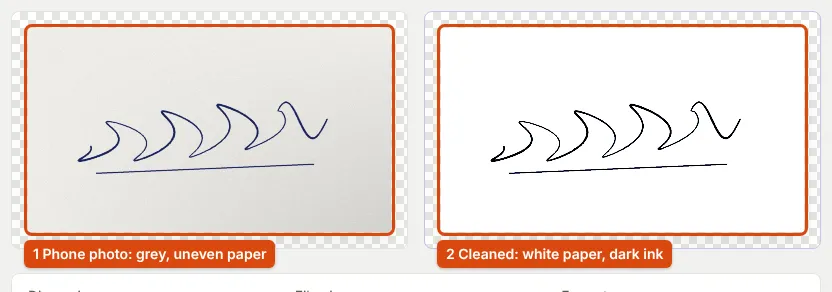
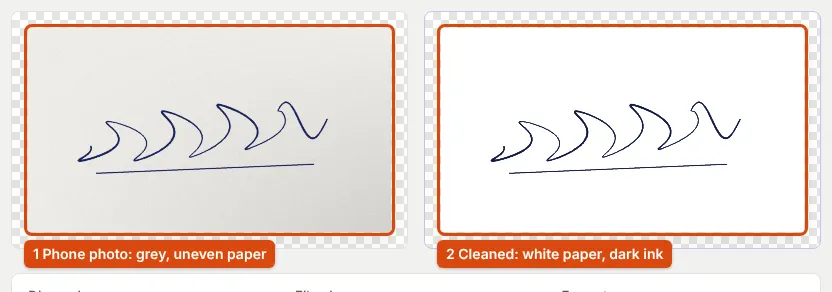
Retake tutorial screenshots after the audit fixes; clearer Compress PDF result wording
The signature cleaner, image compressor, resizer crop, batch, resume library and Your data screenshots
are retaken from the fixed tools. The Compress PDF shot now includes its result line, whose wording
reads 'under 200 KB whether a KB is counted as 1,000 or 1,024 bytes'.

Claude-Session: https://claude.ai/code/session_017Y1cq7vMRxwcAq3zsHZCPV

diff --git a/sw.js b/sw.js
@@ -27,8 +27,8 @@
 
 /* precache:start (generated by scripts/build-sw.js; do not edit by hand) */
 const VENDOR_CACHE = 'applyready-vendor-ab3b187c79';
-const SITE_BYTES = 9419356;
-const SITE_TRANSFER = 4767800;
+const SITE_BYTES = 9423858;
+const SITE_TRANSFER = 4772291;
 const STATIC_ASSETS = [
   '/404.html',
   '/about.html',
@@ -227,7 +227,7 @@ const VENDOR_ASSETS = [
   '/js/vendor/pdfjs/standard_fonts/LiberationSans-Regular.ttf'
 ];
 const OFFLINE_SHELL = ['/js/offline.js', '/css/webfonts/fa-solid-900.woff2', '/css/webfonts/fa-regular-400.woff2'];
-const ASSET_HASHES = '659d48d8 33989cb3 9542597a e94ed0dc 070f43d8 72bed02b 43edfaf8 341a3f5c 0185e246 605e7ebe dbd86c49 7c596a55 549bccf1 062b1e87 6d6f88bb 2353dd6a 0134f604 1a6d8574 d1f7ea3f ad9d7410 3ecb0248 9c346a27 a742787e f0357442 5a5ae374 42075813 5476fd10 bb62d4ef ddf9b963 7c6c5ab7 0833d9a2 f879d59d 2ab1ddb4 f2c4edd7 3884f40f 686e680e 73797752 8e589447 3f54cb29 7852b253 04404a5c 0a6e7479 f448129c b94a713b 97564623 041f100e a6fe5acd 882ab238 2b49a0ab 2820a4f4 ddc16948 65a7c468 e5e80fb8 8aa6938c c1d5b9f5 85d0ed9a 9ef27fb7 b0456054 6e438834 f9f71e17 466e4162 4f10a364 d4840713 333bc53a b852262c 79124226 62d29086 7ad3fd11 3c849845 f7f61b6c 8658403c 520144c3 5b53b59f f052ee44 bc1fc30f aa6e5a20 d87ba78f ccc97f67 10658dfd 381acc1e 20a4fde0 7e8bed67 f459bed3 e0f8f39a b6652503 cfeb156a b4c3428c 4c351ada 021e173b 7166b346 afe88946 41a7fdb8 82eeab63 c4dd9367 1b5b09d3 dbb135e0 0c84fc05 11e9ddfb 0e7d7749 35507a98 a1a335f4 c2dd94fc da139a8a 6de3d471 e8ff1529 6f7c3443 1e4acad5 11ae5c5f 6b77849e adc69f0e 6ed98860 a2e63697 b569d12f cfb137a5 09a8cc5a adf5e281 74da360e 3dc79eae d0ba44cf f10834eb db74c276 5a791de3 35cd9ddc 910b772f 8dd6bee6 82d233cc b20765df c68fca5f 4478300c b24d5881 733bcfce d2081435 892262ce 6fc7ed60 401c08dd f3a994c8 43fa48bd 8225729e 07bc8f77 ecfbc3d1 8246f9ef 01176b15 fab42cf5 54d27c1d 400c3701 edcb5708 62dbd51b e2de8d88 669bdf15 9fd949dc b5e24ef4 eb5f5281 9f553ce8 bf512517 3b60e0ca e124716c cbeddeaf 7d101cce aa7b441c c6f50dc7 6d286735 612ed295 03d2fe45 7c84a9c4 ef95100a 1580a02d 7539c3f4 2312411c f95fe2d5 61ce1916 50d46e76 63f45536'.split(' ');
+const ASSET_HASHES = '659d48d8 33989cb3 9542597a e94ed0dc 070f43d8 72bed02b 43edfaf8 341a3f5c 0185e246 605e7ebe dbd86c49 7c596a55 549bccf1 062b1e87 6d6f88bb 2353dd6a 0134f604 1a6d8574 d1f7ea3f ad9d7410 3ecb0248 9c346a27 a742787e f0357442 5a5ae374 42075813 5476fd10 bb62d4ef ddf9b963 7c6c5ab7 0833d9a2 f879d59d 2ab1ddb4 f2c4edd7 3884f40f 686e680e 73797752 8e589447 3f54cb29 7852b253 aed22776 0a6e7479 f448129c b94a713b 97564623 041f100e a6fe5acd 882ab238 2b49a0ab 2820a4f4 ddc16948 4b968334 e5e80fb8 8aa6938c c1d5b9f5 85d0ed9a 9ef27fb7 b0456054 6e438834 f9f71e17 466e4162 4f10a364 d4840713 333bc53a b852262c 79124226 62d29086 7ad3fd11 3c849845 f7f61b6c 8658403c 520144c3 5b53b59f f052ee44 bc1fc30f aa6e5a20 d87ba78f ccc97f67 10658dfd 381acc1e 20a4fde0 7e8bed67 f459bed3 e0f8f39a b6652503 cfeb156a b4c3428c 4c351ada 021e173b 7166b346 afe88946 41a7fdb8 82eeab63 c4dd9367 1b5b09d3 dbb135e0 0c84fc05 11e9ddfb 0e7d7749 35507a98 a1a335f4 c2dd94fc da139a8a 6de3d471 e8ff1529 6f7c3443 1e4acad5 11ae5c5f 6b77849e adc69f0e 6ed98860 a2e63697 b569d12f cfb137a5 09a8cc5a adf5e281 74da360e 3dc79eae d0ba44cf f10834eb 27870564 5a791de3 35cd9ddc 910b772f 8dd6bee6 82d233cc b20765df c68fca5f 4478300c b24d5881 733bcfce d2081435 892262ce 6fc7ed60 4fd230ac f3a994c8 0ddf4bf2 4d073f36 07bc8f77 ecfbc3d1 8246f9ef 01176b15 3ab7b80a 54d27c1d 400c3701 edcb5708 073ea666 e2de8d88 669bdf15 9fd949dc dd79ebcb 66ada266 9f553ce8 bf512517 3b60e0ca e124716c cbeddeaf 7d101cce aa7b441c c6f50dc7 6d286735 612ed295 03d2fe45 7c84a9c4 ef95100a 495baa39 e2fa81c1 2312411c 4d50d2a3 61ce1916 50d46e76 63f45536'.split(' ');
 /* precache:end */
 
 

diff --git a/guides/how-to-process-many-photos-at-once.html b/guides/how-to-process-many-photos-at-once.html
@@ -235,7 +235,7 @@
 <h2>Step 2: Choose a preset</h2>
 <p>Under <em>Size</em>, open <em>Preset</em>. The choices are <em>Custom settings</em>, <em>Passport photo: 350 × 450 px, under 50 KB</em>, <em>Signature: 300 × 100 px, under 30 KB</em>, <em>Profile photo: 400 × 400 px, under 100 KB</em> and <em>Document scan: within 1240 × 1754 px, under 500 KB</em>. A preset fills in the size, format and file limit; you can then change any value, which turns the preset back to <em>Custom settings</em>.</p>
 <figure class="shot">
-<a class="shot__full" href="../img/guides/tut-batch-preset.webp"><picture><source media="(max-width: 640px)" srcset="../img/guides/phone/tut-batch-preset.webp" width="355" height="1397"><img src="../img/guides/tut-batch-preset.webp" width="947" height="615" alt="The batch image processor with six photos added and the Passport photo preset chosen, which sets an exact 350 by 450 pixel size, JPEG and a 50 KB maximum for every image." loading="lazy" decoding="async"></picture><span class="shot__zoom"><i class="fa-solid fa-magnifying-glass-plus" aria-hidden="true"></i> Open full size</span></a>
+<a class="shot__full" href="../img/guides/tut-batch-preset.webp"><picture><source media="(max-width: 640px)" srcset="../img/guides/phone/tut-batch-preset.webp" width="355" height="712"><img src="../img/guides/tut-batch-preset.webp" width="947" height="615" alt="The batch image processor with six photos added and the Passport photo preset chosen, which sets an exact 350 by 450 pixel size, JPEG and a 50 KB maximum for every image." loading="lazy" decoding="async"></picture><span class="shot__zoom"><i class="fa-solid fa-magnifying-glass-plus" aria-hidden="true"></i> Open full size</span></a>
 <figcaption>Six photos added and the Passport photo preset chosen (1). It sets Resize to Exact size, crop to fill (2), 350 × 450 px, JPEG and a 50 KB maximum (3).</figcaption>
 </figure>
 <p><em>Resize</em> decides how each image meets the size: <em>Keep the original size</em>, <em>Fit within a box, keep proportions</em>, <em>Exact size, crop to fill</em>, <em>Exact size, add padding</em> or <em>Scale by a percentage</em>. The line under the menu describes the one you picked. Below it are the same limit, quality and format settings as the compressor.</p>

diff --git a/guides/compress-pdf-for-upload-portals.html b/guides/compress-pdf-for-upload-portals.html
@@ -243,7 +243,7 @@
 <h2>What the compressor does</h2>
 <p>The <a href="../compress-pdf.html">PDF compressor</a> redraws every page in your browser at the resolution you choose (150 DPI unless you change it) and saves it as a JPEG, at the highest quality that fits that page's share of your limit. Only when the lowest quality is still too large does it lower the resolution, down to 50 DPI, and it tells you when it has. The result has the same number of pages, in the same order and at the same page sizes, and it is opened again and checked before you can download it. The trade-off is that every page becomes a picture, so text can no longer be selected or searched. That suits scans and phone photos, which are pictures already; a PDF exported from a word processor is usually small enough as it is.</p>
 <figure class="shot">
-<picture><source media="(max-width: 640px)" srcset="../img/guides/phone/compress-pdf.webp" width="350" height="786"><img src="../img/guides/compress-pdf.webp" width="694" height="608" alt="The ApplyReady PDF compressor showing the file size before and after compression and the maximum file size choices." loading="lazy" decoding="async"></picture>
+<picture><source media="(max-width: 640px)" srcset="../img/guides/phone/compress-pdf.webp" width="355" height="896"><img src="../img/guides/compress-pdf.webp" width="700" height="647" alt="The ApplyReady PDF compressor showing the file size before and after compression and the maximum file size choices." loading="lazy" decoding="async"></picture>
 <figcaption>The compressor shows the size before and after, against the maximum you choose.</figcaption>
 </figure>
 <p>In our test, a three-page A4 scan of 431 KB compressed to a 100 KB maximum came out at 97.8 KB, still at 150 DPI. Check the result against your limit and read it at 100% zoom: if the smallest text is not readable, the limit is too tight for that many pages.</p>

diff --git a/tests/pdf_tools_tests.js b/tests/pdf_tools_tests.js
@@ -792,7 +792,7 @@ const server = http.createServer((req, res) => {
     let info = pdfInfo(out.file);
     const size = fs.statSync(out.file).size;
     ok(info.pages === 3 && info.sizes.every(s => near(s[0], 595.28) && near(s[1], 841.89)), `compress: 3 A4 pages kept (${info.pages})`);
-    ok(size <= 120 * 1000 && /Under 120 KB \([\d,]+ bytes, under 120 KB however the portal counts a KB\)/.test(await page.locator('#compressStatus').innerText()), `compress: under 120 KB counted either way (1 KB = 1,000 or 1,024 bytes), with the exact size given (${size} bytes: ${await page.locator('#compressStatus').innerText()})`);
+    ok(size <= 120 * 1000 && /Under 120 KB \([\d,]+ bytes, under 120 KB whether a KB is counted as 1,000 or 1,024 bytes\)/.test(await page.locator('#compressStatus').innerText()), `compress: under 120 KB counted either way (1 KB = 1,000 or 1,024 bytes), with the exact size given (${size} bytes: ${await page.locator('#compressStatus').innerText()})`);
     const after = Number((await page.locator('#statCompSize').innerText()).replace(/ KB$/, ''));
     ok(after <= 120 && after >= size / 1000, `compress: the After size uses the limit's KB (${await page.locator('#statCompSize').innerText()} for ${size} bytes)`);
     const mergeLink = page.locator('#compressResultArea a[href="merge-pdf.html"]');

diff --git a/scripts/guide-screenshots.js b/scripts/guide-screenshots.js
@@ -316,8 +316,8 @@ const SHOTS = {
       await page.click('#btnStartCompress');
       await page.waitForSelector('#compressResultArea:not(.hidden)', { timeout: 60000 });
       await settle(page);
-      await annotate(page, [['.size-compare', 'Before and after, in KB', 'above'], ['.target-grid', 'The portal limit you chose', 'above']]);
-      return regionOf(page, ['.size-compare', '.target-grid']);
+      await annotate(page, [['.size-compare', 'Before and after, in KB', 'corner'], ['.target-grid', 'The portal limit you chose', 'above']]);
+      return regionOf(page, ['#compressStatus', '.size-compare', '.target-grid']);
     }
   },
   'resume-review': {

diff --git a/js/lib/pdf-kit.js b/js/lib/pdf-kit.js
@@ -1253,7 +1253,7 @@
    */
   function compressResult(bytes, kb, kept) {
     const met = bytes <= kb * 1000;
-    const exact = `${grouped(bytes)} bytes, under ${kb} KB however the portal counts a KB`;
+    const exact = `${grouped(bytes)} bytes, under ${kb} KB whether a KB is counted as 1,000 or 1,024 bytes`;
     const size = `${grouped(bytes)} bytes, ${limitKB(bytes)} KB`;
     // Over kb x 1,000 bytes but not over kb x 1,024: some portals take it, some do not.
     const either = !met && bytes <= kb * 1024 ? ` A portal that counts 1 KB as 1,024 bytes would accept it (up to ${grouped(kb * 1024)} bytes); one that counts 1,000 bytes would not.` : '';
